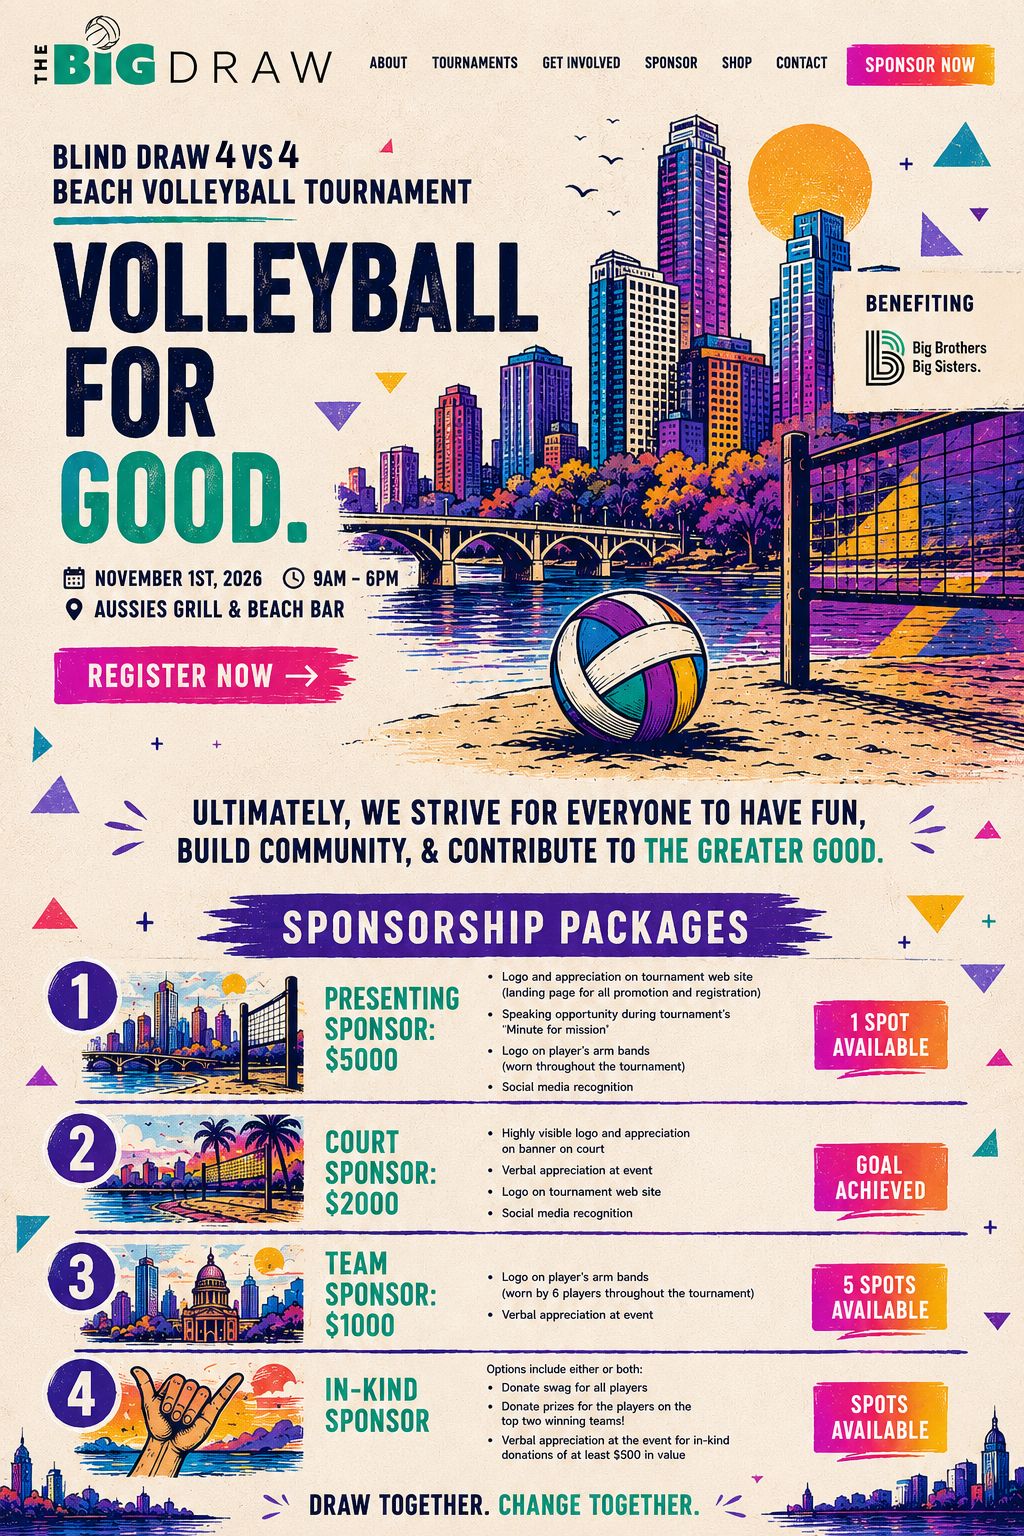
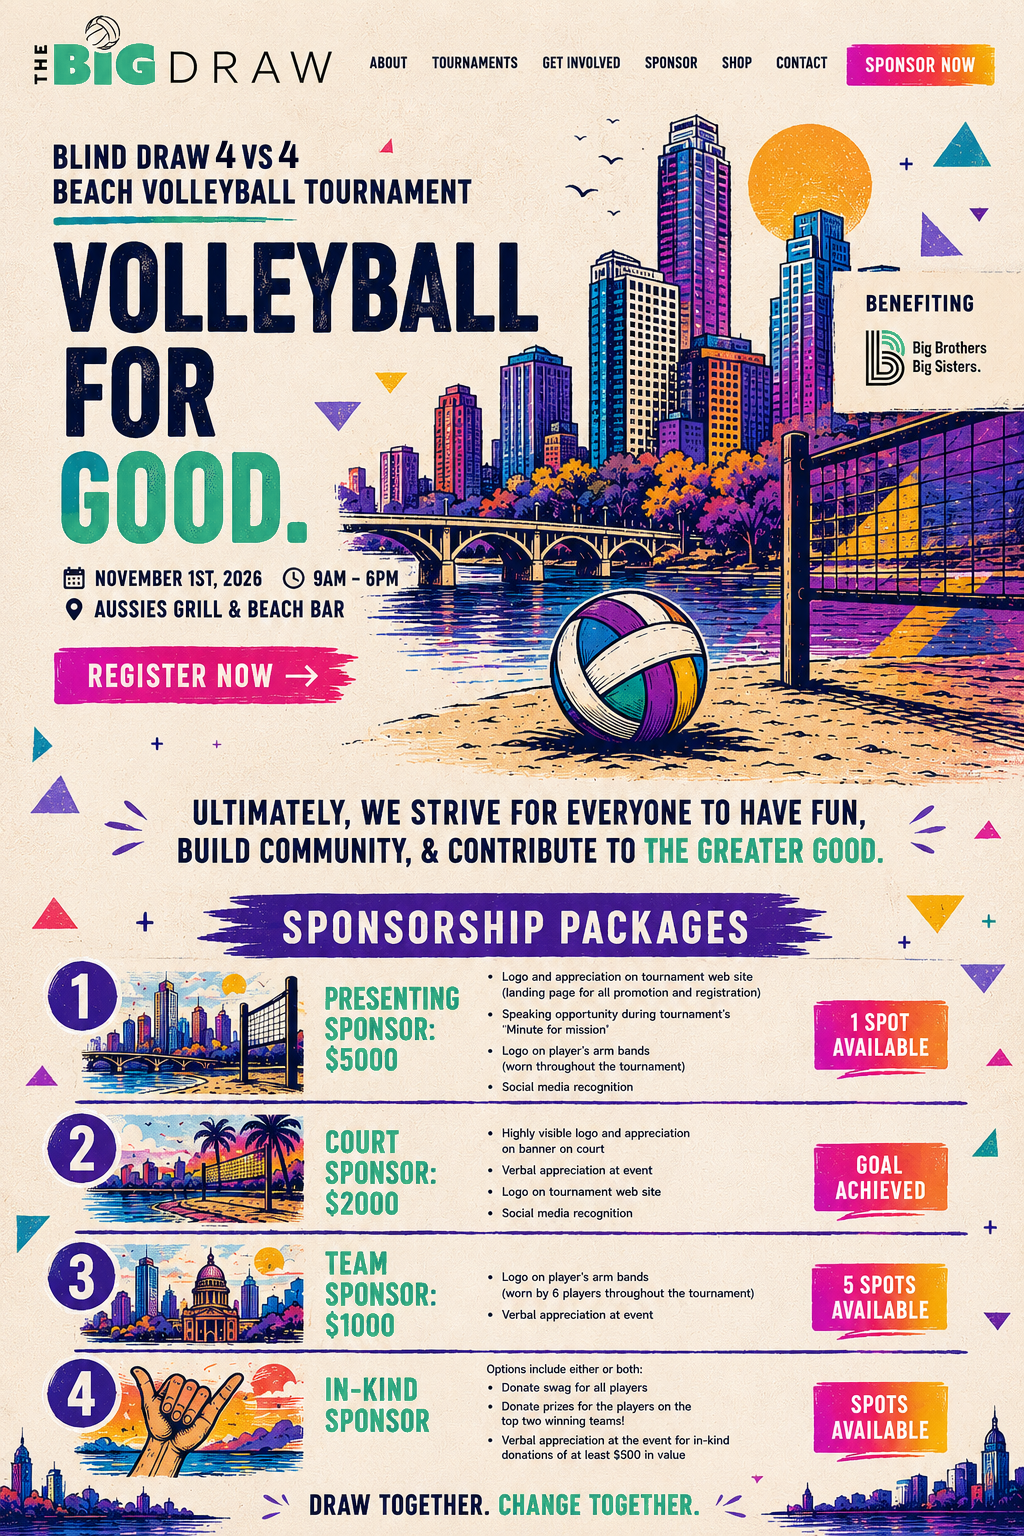
Stage: gradients to yellow + poster greens recolored (from TBDVolleyball dev fe417a5)

diff --git a/TBD_v4/css/site.css b/TBD_v4/css/site.css
@@ -4,7 +4,8 @@
   --magenta:#E5388C; --purple:#6D28D9; --blue:#2563EB; --gold:#F6A91B;
   /* --teal is the brand green; matched to the logo (#48B888) per Jayna's markup */
   --cream:#F6ECD7; --paper:#FBF4E6; --line:#e4d8bd;
-  --grad:linear-gradient(100deg,#2563EB,#6D28D9 38%,#E5388C 68%,#F26522);
+  /* brand gradient runs the whole way to yellow (signage), used everywhere */
+  --grad:linear-gradient(100deg,#2563EB,#6D28D9 26%,#E5388C 50%,#F26522 74%,#F6A91B);
   --col:760px;
 }
 *{margin:0;padding:0;box-sizing:border-box}
@@ -138,9 +139,6 @@ header{background:var(--cream);position:relative;z-index:10}
 .sponsors-past img{display:block;width:100%;height:auto;opacity:.6;transition:opacity .3s}
 .sponsors-past:hover img{opacity:1}
 .muted{color:#5a6052;font-weight:600;font-size:16px;line-height:1.6;max-width:62ch}
-
-/* registration header — full blue→yellow signage gradient (Jayna) */
-.pagehead.signage{background:linear-gradient(100deg,#2563EB,#6D28D9 26%,#E5388C 50%,#F26522 74%,#F6A91B)}
 
 /* how it works — step row inside the header */
 .steps{display:flex;align-items:flex-start;justify-content:center;gap:4px;margin-top:26px;flex-wrap:wrap;list-style:none}

diff --git a/TBD_v4/index.php b/TBD_v4/index.php
@@ -25,7 +25,7 @@
 
 <!-- home = top of the poster (hero + mission), header chopped off and replaced by the shared nav -->
 <div class="slice home">
-  <img src="assets/poster.png?v=2" alt="The Big Draw — Blind Draw beach volleyball tournament, November 1st, 2026 at Aussies Grill & Beach Bar. Volleyball for Good, benefiting Big Brothers Big Sisters.">
+  <img src="assets/poster.png?v=3" alt="The Big Draw — Blind Draw beach volleyball tournament, November 1st, 2026 at Aussies Grill & Beach Bar. Volleyball for Good, benefiting Big Brothers Big Sisters.">
   <!-- Register Now button hotspot -->
   <a class="hot" data-label="Register Now" href="<?= $register_url ?>"
      style="left:5.3%;top:72%;width:33%;height:8.5%"></a>

diff --git a/TBD_v4/includes/header.php b/TBD_v4/includes/header.php
@@ -14,7 +14,7 @@
 <link rel="preconnect" href="https://fonts.googleapis.com">
 <link rel="preconnect" href="https://fonts.gstatic.com" crossorigin>
 <link href="https://fonts.googleapis.com/css2?family=Archivo+Black&family=Archivo:wght@500;600;700;800;900&display=swap" rel="stylesheet">
-<link rel="stylesheet" href="css/site.css?v=8">
+<link rel="stylesheet" href="css/site.css?v=9">
 </head>
 <body>
 <header><div class="bar">

diff --git a/TBD_v4/register.php b/TBD_v4/register.php
@@ -4,7 +4,7 @@
   include 'includes/header.php';
 ?>
 
-<section class="pagehead signage"><div class="col">
+<section class="pagehead"><div class="col">
   <div class="eyebrow">Register · Volleyball for Good</div>
   <h1>Registration</h1>
   <p>Team sign-ups for The Big Draw — November 1st, 2026 at Aussie&rsquo;s Grill &amp; Beach Bar, Austin.</p>
